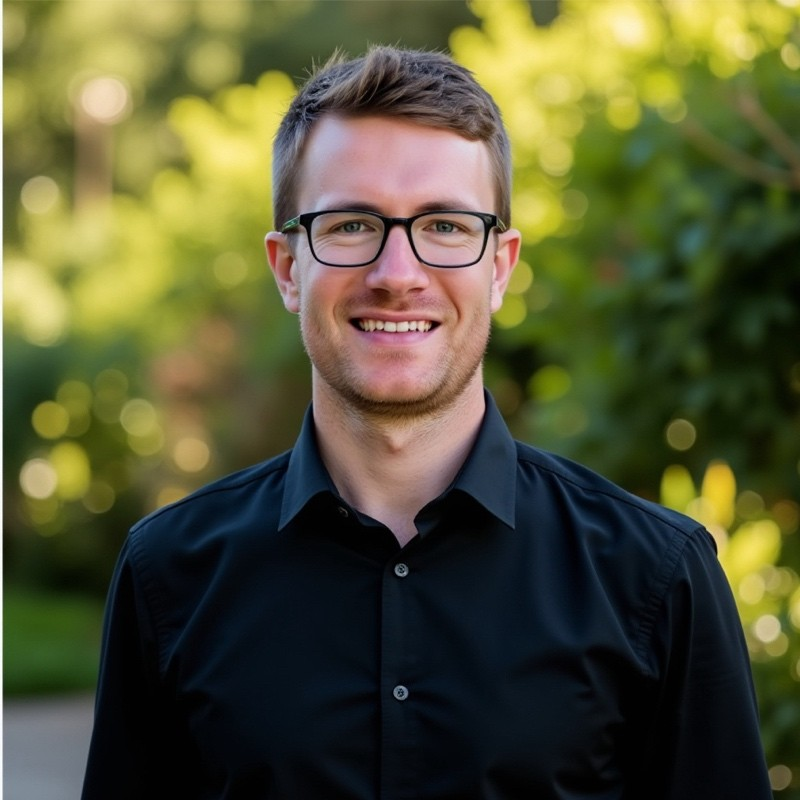
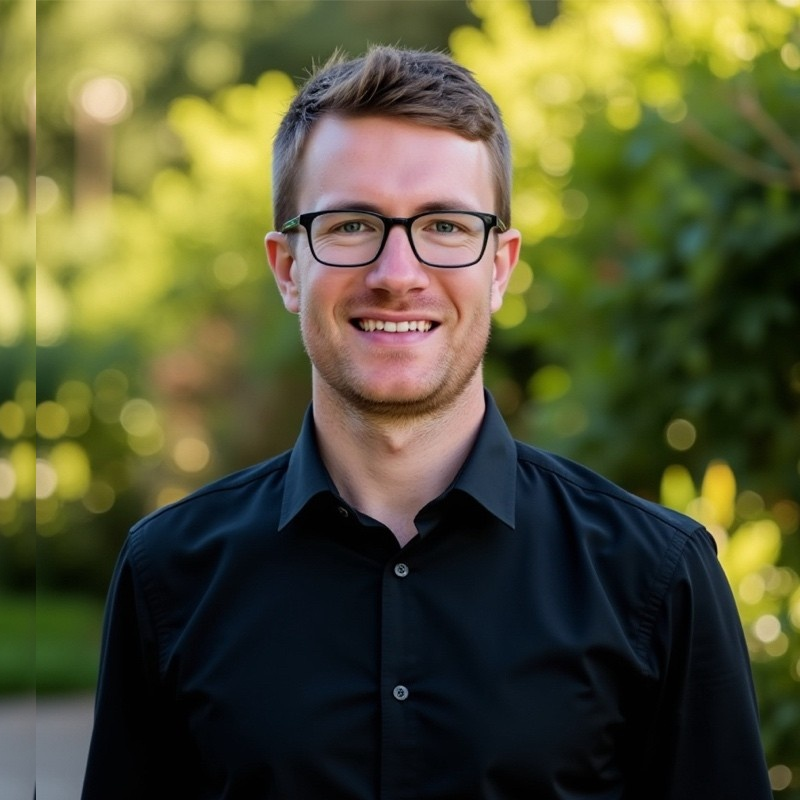
Fix profile photo edge and homepage crop.
Retouch profile.jpg to remove background bleed and tune homepage hero image crop, zoom, and border for a clean circular portrait.

Made-with: Cursor

Changed region(s): [[0.0, 0.0, 0.0625, 1.0]]

diff --git a/styles.css b/styles.css
@@ -113,6 +113,7 @@ main {
   height: 140px;
   border-radius: 50%;
   object-fit: cover;
+  object-position: 56% center;
   border: 2px solid var(--line);
   box-shadow: 0 10px 24px rgba(0, 0, 0, 0.28);
 }
@@ -121,6 +122,10 @@ main {
   width: 220px;
   height: 220px;
   justify-self: end;
+  object-position: 72% center;
+  transform: scale(1.16);
+  border: none;
+  box-shadow: 0 14px 28px rgba(0, 0, 0, 0.35);
 }
 
 .stats {
